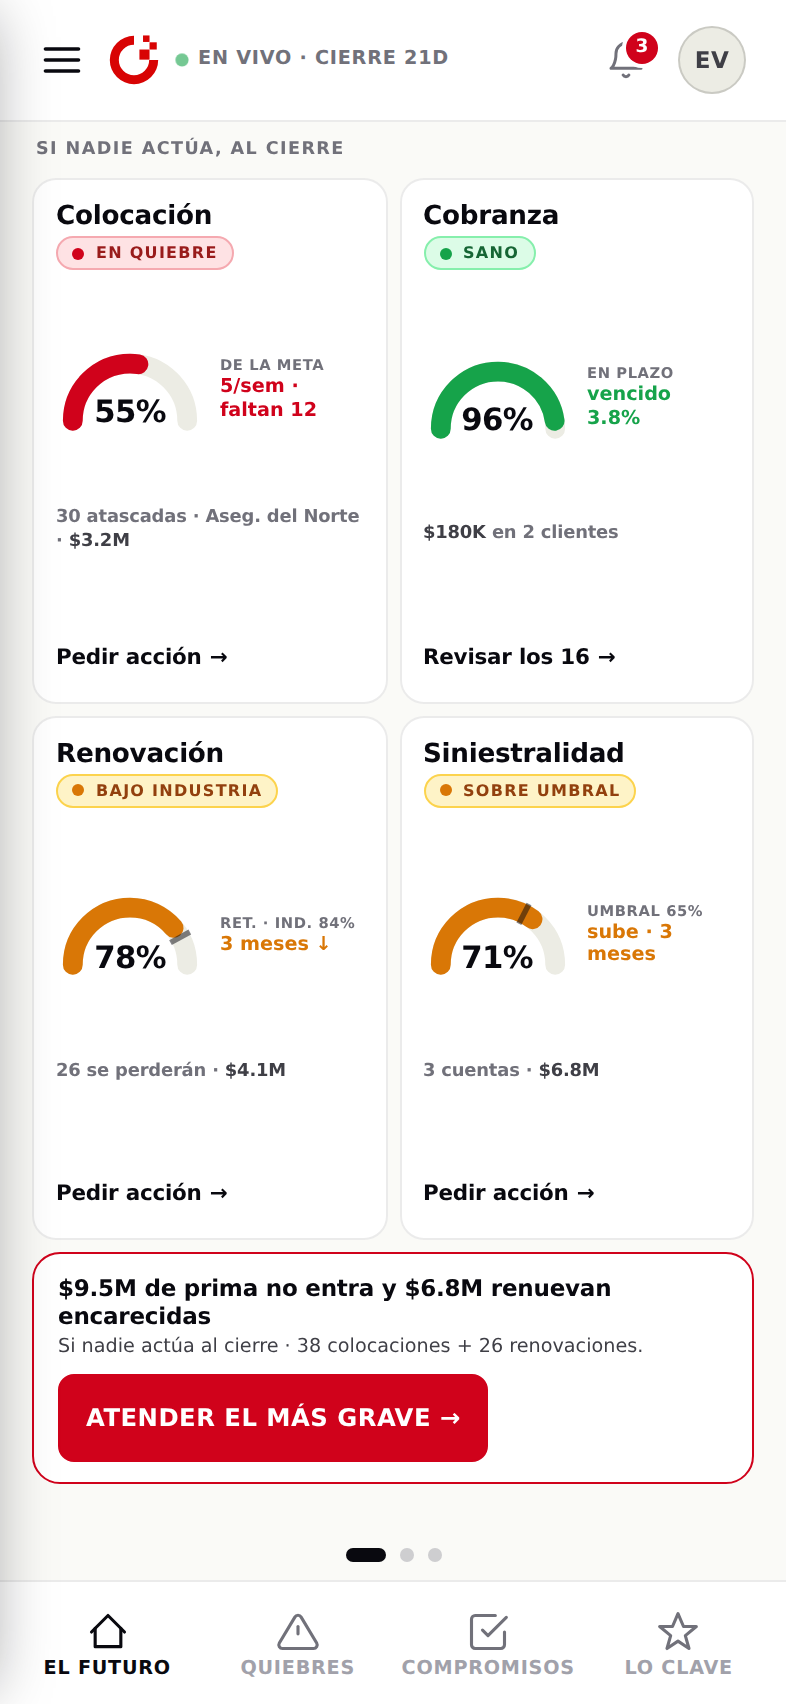
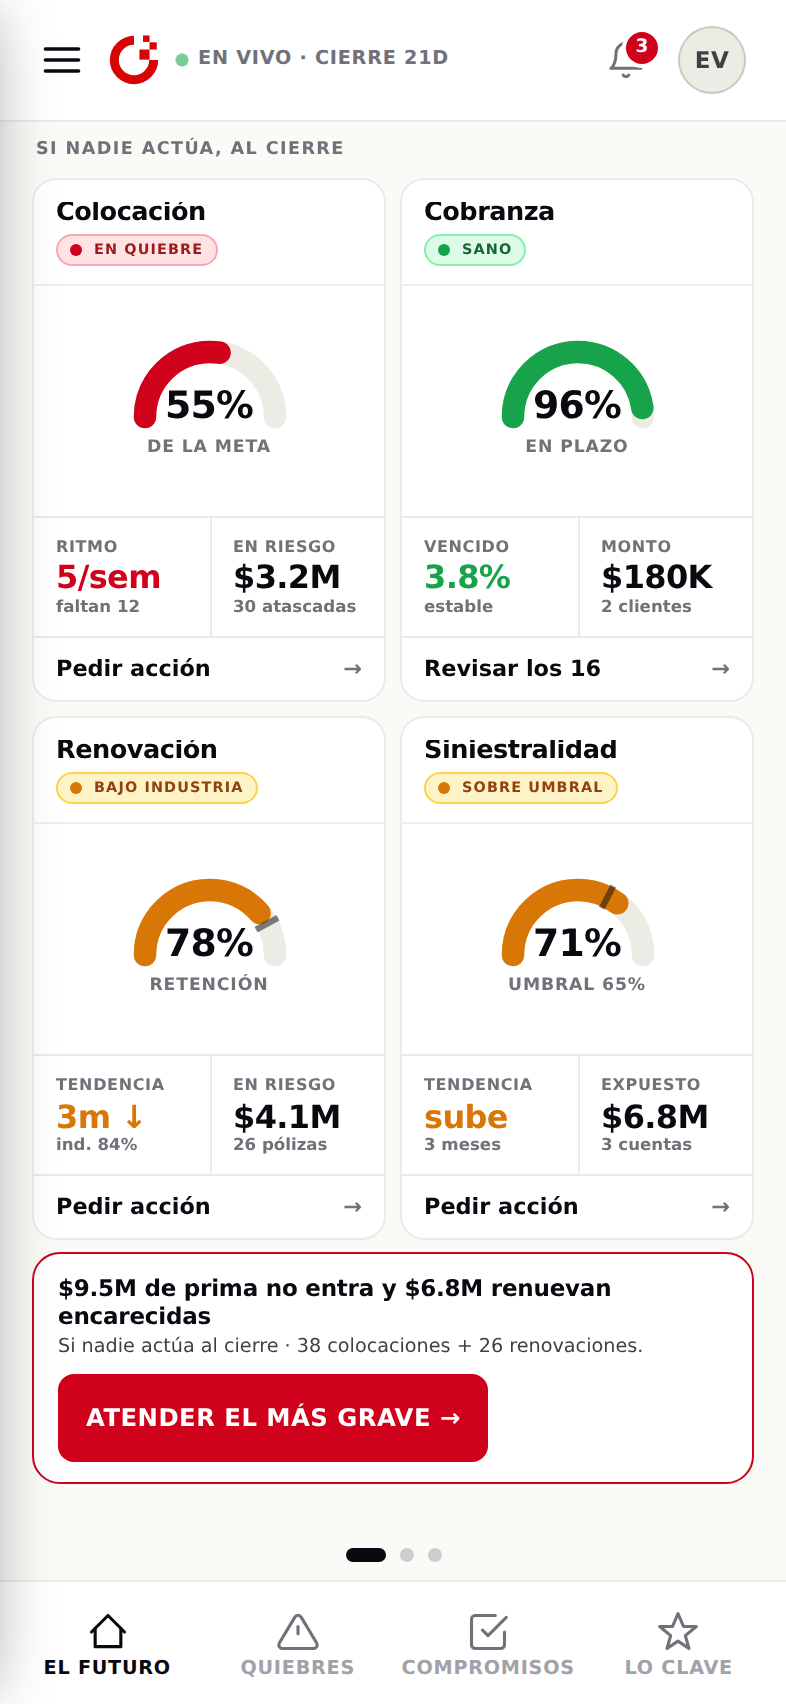
Desarrollo · Ontikos móvil: El Futuro, celda KPI compuesta en grilla
El contenido interno de cada línea se REDISEÑA sobre una grilla (no se estira
la caja). Cada tile es una celda KPI con zonas separadas por líneas clave:

- Cabecera: título + estado (chip).
- Héroe: el gauge (arco + %) con su caption.
- Cifras: rejilla de 2 columnas con línea clave entre ellas —tendencia y
  dinero del escritorio (Ritmo/Vencido/Tendencia + En riesgo/Monto/Expuesto)—,
  valores a peso 900 tabular; el dinero en TINTA, la tendencia en su estado.
- Acto: Pedir acción / Revisar los 16.

Así la celda llena por composición, con contenido real y alineado, en vez de
una caja estirada con el contenido flotando. En el iPhone SE con barras las
cifras se ocultan y queda la celda compacta (gauge + acto); re-auditado sin
desbordamiento ni recorte en 375×553, 375×667, 393×852, 412×915. Botón de la
barra de decisión con texto blanco sobre rojo también en oscuro.

Claude-Session: https://claude.ai/code/session_01Tht9ke39SpUdAFHxMDBS3w

diff --git a/desarrollo/movil/index.html b/desarrollo/movil/index.html
@@ -81,31 +81,43 @@
           <div class="page-ey">Si nadie actúa, al cierre</div>
           <div class="lgrid">
             <!-- Colocación -->
-            <div class="ltile" onclick="openLine('Colocación','En quiebre · 55% de la meta','Ritmo 5/sem · se necesitan 12 · 30 atascadas · Aseg. del Norte · $3.2M')">
-              <div class="ltile-h"><span class="ltile-t">Colocación</span><span class="memb-chip expired">en quiebre</span></div>
-              <div class="gz r"><div class="gz-arc"><svg viewBox="0 0 64 40"><path class="gz-track" d="M6 34 A26 26 0 0 1 58 34" pathLength="100"/><path class="gz-val" d="M6 34 A26 26 0 0 1 58 34" pathLength="100" stroke-dasharray="100" stroke-dashoffset="45"/></svg><div class="gz-num">55%</div></div><div class="gz-body"><div class="gz-cap">de la meta</div><div class="gz-pace r">5/sem · faltan 12</div></div></div>
-              <div class="ltile-foot">30 atascadas · Aseg. del Norte · <b>$3.2M</b></div>
+            <div class="ltile" onclick="openLine('Colocación','En quiebre · 55% de la meta','Ritmo 5/sem, se necesitan 12 · 30 atascadas en Aseguradora del Norte · $3.2M en riesgo')">
+              <div class="lt-head"><span class="lt-t">Colocación</span><span class="memb-chip expired">en quiebre</span></div>
+              <div class="lt-hero r"><div class="gz-arc"><svg viewBox="0 0 64 40"><path class="gz-track" d="M6 34 A26 26 0 0 1 58 34" pathLength="100"/><path class="gz-val" d="M6 34 A26 26 0 0 1 58 34" pathLength="100" stroke-dasharray="100" stroke-dashoffset="45"/></svg><div class="gz-num">55%</div></div><div class="lt-cap">de la meta</div></div>
+              <div class="lt-stats">
+                <div class="lt-stat"><div class="lt-k">Ritmo</div><div class="lt-v r">5/sem</div><div class="lt-s">faltan 12</div></div>
+                <div class="lt-stat"><div class="lt-k">En riesgo</div><div class="lt-v">$3.2M</div><div class="lt-s">30 atascadas</div></div>
+              </div>
               <button class="ltile-act">Pedir acción<span class="arr">→</span></button>
             </div>
             <!-- Cobranza -->
-            <div class="ltile" onclick="openLine('Cobranza','Sano · 96% en plazo','Vencido 3.8% · estable · $180K en 2 clientes')">
-              <div class="ltile-h"><span class="ltile-t">Cobranza</span><span class="memb-chip">sano</span></div>
-              <div class="gz g"><div class="gz-arc"><svg viewBox="0 0 64 40"><path class="gz-track" d="M6 34 A26 26 0 0 1 58 34" pathLength="100"/><path class="gz-val" d="M6 34 A26 26 0 0 1 58 34" pathLength="100" stroke-dasharray="100" stroke-dashoffset="4"/></svg><div class="gz-num">96%</div></div><div class="gz-body"><div class="gz-cap">en plazo</div><div class="gz-pace g">vencido 3.8%</div></div></div>
-              <div class="ltile-foot"><b>$180K</b> en 2 clientes</div>
+            <div class="ltile" onclick="openLine('Cobranza','Sano · 96% en plazo','Vencido 3.8%, estable · $180K en 2 clientes')">
+              <div class="lt-head"><span class="lt-t">Cobranza</span><span class="memb-chip">sano</span></div>
+              <div class="lt-hero g"><div class="gz-arc"><svg viewBox="0 0 64 40"><path class="gz-track" d="M6 34 A26 26 0 0 1 58 34" pathLength="100"/><path class="gz-val" d="M6 34 A26 26 0 0 1 58 34" pathLength="100" stroke-dasharray="100" stroke-dashoffset="4"/></svg><div class="gz-num">96%</div></div><div class="lt-cap">en plazo</div></div>
+              <div class="lt-stats">
+                <div class="lt-stat"><div class="lt-k">Vencido</div><div class="lt-v g">3.8%</div><div class="lt-s">estable</div></div>
+                <div class="lt-stat"><div class="lt-k">Monto</div><div class="lt-v">$180K</div><div class="lt-s">2 clientes</div></div>
+              </div>
               <button class="ltile-act">Revisar los 16<span class="arr">→</span></button>
             </div>
             <!-- Renovación -->
-            <div class="ltile" onclick="openLine('Renovación','Bajo industria · 78% retención','Ind. 84% · 3 meses a la baja · 26 se perderán · $4.1M')">
-              <div class="ltile-h"><span class="ltile-t">Renovación</span><span class="memb-chip grace">bajo industria</span></div>
-              <div class="gz a"><div class="gz-arc"><svg viewBox="0 0 64 40"><path class="gz-track" d="M6 34 A26 26 0 0 1 58 34" pathLength="100"/><path class="gz-val" d="M6 34 A26 26 0 0 1 58 34" pathLength="100" stroke-dasharray="100" stroke-dashoffset="22"/><line class="gz-tick" x1="50.4" y1="23.9" x2="59.2" y2="19.1"/></svg><div class="gz-num">78%</div></div><div class="gz-body"><div class="gz-cap">ret. · ind. 84%</div><div class="gz-pace a">3 meses ↓</div></div></div>
-              <div class="ltile-foot">26 se perderán · <b>$4.1M</b></div>
+            <div class="ltile" onclick="openLine('Renovación','Bajo industria · 78% retención','Industria 84% · 3 meses a la baja · 26 se perderán · $4.1M')">
+              <div class="lt-head"><span class="lt-t">Renovación</span><span class="memb-chip grace">bajo industria</span></div>
+              <div class="lt-hero a"><div class="gz-arc"><svg viewBox="0 0 64 40"><path class="gz-track" d="M6 34 A26 26 0 0 1 58 34" pathLength="100"/><path class="gz-val" d="M6 34 A26 26 0 0 1 58 34" pathLength="100" stroke-dasharray="100" stroke-dashoffset="22"/><line class="gz-tick" x1="50.4" y1="23.9" x2="59.2" y2="19.1"/></svg><div class="gz-num">78%</div></div><div class="lt-cap">retención</div></div>
+              <div class="lt-stats">
+                <div class="lt-stat"><div class="lt-k">Tendencia</div><div class="lt-v a">3m ↓</div><div class="lt-s">ind. 84%</div></div>
+                <div class="lt-stat"><div class="lt-k">En riesgo</div><div class="lt-v">$4.1M</div><div class="lt-s">26 pólizas</div></div>
+              </div>
               <button class="ltile-act">Pedir acción<span class="arr">→</span></button>
             </div>
             <!-- Siniestralidad -->
-            <div class="ltile" onclick="openLine('Siniestralidad','Sobre umbral · 71% · umbral 65%','Sube · 3 meses · 3 cuentas · $6.8M')">
-              <div class="ltile-h"><span class="ltile-t">Siniestralidad</span><span class="memb-chip grace">sobre umbral</span></div>
-              <div class="gz a"><div class="gz-arc"><svg viewBox="0 0 64 40"><path class="gz-track" d="M6 34 A26 26 0 0 1 58 34" pathLength="100"/><path class="gz-val" d="M6 34 A26 26 0 0 1 58 34" pathLength="100" stroke-dasharray="100" stroke-dashoffset="29"/><line class="gz-tick" x1="41.5" y1="15.3" x2="46.1" y2="6.4"/></svg><div class="gz-num">71%</div></div><div class="gz-body"><div class="gz-cap">umbral 65%</div><div class="gz-pace a">sube · 3 meses</div></div></div>
-              <div class="ltile-foot">3 cuentas · <b>$6.8M</b></div>
+            <div class="ltile" onclick="openLine('Siniestralidad','Sobre umbral · 71% · umbral 65%','Sube 3 meses · umbral 65% · 3 cuentas · $6.8M expuesto')">
+              <div class="lt-head"><span class="lt-t">Siniestralidad</span><span class="memb-chip grace">sobre umbral</span></div>
+              <div class="lt-hero a"><div class="gz-arc"><svg viewBox="0 0 64 40"><path class="gz-track" d="M6 34 A26 26 0 0 1 58 34" pathLength="100"/><path class="gz-val" d="M6 34 A26 26 0 0 1 58 34" pathLength="100" stroke-dasharray="100" stroke-dashoffset="29"/><line class="gz-tick" x1="41.5" y1="15.3" x2="46.1" y2="6.4"/></svg><div class="gz-num">71%</div></div><div class="lt-cap">umbral 65%</div></div>
+              <div class="lt-stats">
+                <div class="lt-stat"><div class="lt-k">Tendencia</div><div class="lt-v a">sube</div><div class="lt-s">3 meses</div></div>
+                <div class="lt-stat"><div class="lt-k">Expuesto</div><div class="lt-v">$6.8M</div><div class="lt-s">3 cuentas</div></div>
+              </div>
               <button class="ltile-act">Pedir acción<span class="arr">→</span></button>
             </div>
           </div>

diff --git a/desarrollo/movil/assets/movil.css b/desarrollo/movil/assets/movil.css
@@ -86,47 +86,59 @@
 .gz-pace{font-size:.66rem;font-weight:800;margin-top:3px;line-height:1.2}
 .gz-pace.r{color:var(--red-tx,var(--red))} .gz-pace.a{color:var(--amber)} .gz-pace.g{color:var(--green)} .gz-pace.n{color:var(--ink2)}
 
-/* el tile de línea estratégica (página 1 · rejilla 2×2).
-   La rejilla LLENA el alto disponible (flex:1, filas iguales) y el gauge se
-   centra en el tile: en pantallas altas el tile crece y respira, sin dejar un
-   vacío grande en medio de la página; en el SE se compacta. */
-.lgrid{display:grid;grid-template-columns:1fr 1fr;grid-template-rows:1fr 1fr;gap:6px;flex:1 1 auto;min-height:0}
-.ltile{background:var(--surf);border:1px solid var(--brd);border-radius:12px;padding:10px 10px;display:flex;flex-direction:column;justify-content:space-between;gap:6px;min-width:0;min-height:0;overflow:hidden}
-.ltile .gz{flex:none;align-items:center}
-.ltile-foot{flex:none;font-size:.56rem;font-weight:700;color:var(--ink3);line-height:1.3;letter-spacing:-.01em}
-.ltile-foot b{color:var(--ink2);font-weight:800}
-/* título en su línea; el chip de estado DEBAJO (así caben "sobre umbral",
-   "bajo industria" sin salirse del tile estrecho) */
-.ltile-h{display:flex;flex-direction:column;align-items:flex-start;gap:3px}
-.ltile-t{font-size:.82rem;font-weight:800;letter-spacing:-.01em;line-height:1}
-.ltile .memb-chip{font-size:.5rem;padding:2px 7px;white-space:nowrap}
-.ltile .gz{gap:8px}
-.ltile .gz-arc{width:54px;height:32px}
-.ltile .gz-arc svg{width:54px;height:32px}
-.ltile .gz-num{font-size:.8rem}
-.ltile .gz-cap{font-size:.46rem}
-.ltile .gz-pace{font-size:.6rem;margin-top:1px}
-/* la línea de evidencia (foot) sólo en pantallas altas: en el SE no cabe y su
-   razón es llenar el alto que sobra, que el SE no tiene */
-.ltile-foot{display:none}
-/* en pantallas altas: el gauge crece, aparece la evidencia, el tile respira */
-@media (min-height:740px){
-  .ltile{padding:12px 11px}
-  .ltile .gz-arc{width:74px;height:44px}
-  .ltile .gz-arc svg{width:74px;height:44px}
-  .ltile .gz-num{font-size:.96rem}
-  .ltile-foot{display:block}
+/* ── El tile de línea estratégica · celda KPI COMPUESTA EN GRILLA ──────────
+   No es una caja estirada: el contenido interno se rediseña y se alinea a
+   líneas clave. Zonas: cabecera (título + estado) · el gauge como héroe · una
+   rejilla de 2 cifras (tendencia y dinero, del escritorio) separadas por una
+   línea clave · el acto. Llena por composición, no estirando. */
+.lgrid{display:grid;grid-template-columns:1fr 1fr;grid-template-rows:1fr 1fr;gap:7px;flex:1 1 auto;min-height:0}
+.ltile{background:var(--surf);border:1px solid var(--brd);border-radius:12px;display:grid;grid-template-rows:auto 1fr auto;min-width:0;min-height:0;overflow:hidden;cursor:pointer}
+/* título arriba, estado DEBAJO: así caben "bajo industria"/"sobre umbral" sin
+   recortarse en el tile estrecho */
+.lt-head{display:flex;flex-direction:column;align-items:flex-start;gap:3px;padding:7px 9px 6px}
+.lt-t{font-size:.8rem;font-weight:800;letter-spacing:-.02em;line-height:1;max-width:100%;overflow:hidden;text-overflow:ellipsis;white-space:nowrap}
+.ltile .memb-chip{font-size:.45rem;padding:2px 6px;white-space:nowrap;flex:none}
+/* héroe: el gauge (arco + %) centrado, crece con el tile */
+.lt-hero{display:flex;flex-direction:column;align-items:center;justify-content:center;gap:2px;padding:3px 8px 7px;border-top:1px solid var(--line2,rgba(0,0,0,.07));min-height:0}
+.lt-hero .gz-arc{width:64px;height:38px;position:relative;flex:none}
+.lt-hero .gz-arc svg{width:64px;height:38px;display:block;overflow:visible}
+.lt-hero .gz-num{font-size:.9rem}
+.lt-hero.r .gz-val{stroke:var(--red)} .lt-hero.a .gz-val{stroke:var(--amber-fill,var(--amber))} .lt-hero.g .gz-val{stroke:var(--green)}
+.lt-cap{font-size:.5rem;font-weight:800;color:var(--ink3);text-transform:uppercase;letter-spacing:.05em;text-align:center}
+/* cifras: 2 columnas, línea clave arriba y entre ellas */
+.lt-stats{display:none;grid-template-columns:1fr 1fr;border-top:1px solid var(--brd)}
+.lt-stat{padding:6px 10px;min-width:0}
+.lt-stat + .lt-stat{border-left:1px solid var(--brd)}
+.lt-k{font-size:.46rem;font-weight:800;color:var(--ink3);text-transform:uppercase;letter-spacing:.04em;white-space:nowrap;overflow:hidden;text-overflow:ellipsis}
+.lt-v{font-size:.86rem;font-weight:900;letter-spacing:-.02em;font-variant-numeric:tabular-nums;line-height:1.05;margin-top:2px;color:var(--ink)}
+.lt-v.r{color:var(--red-tx,var(--red))} .lt-v.a{color:var(--amber)} .lt-v.g{color:var(--green)}
+.lt-s{font-size:.48rem;font-weight:700;color:var(--ink3);line-height:1.2;margin-top:1px;white-space:nowrap;overflow:hidden;text-overflow:ellipsis}
+.ltile-act{border:none;border-top:1px solid var(--brd);background:none;padding:7px 10px;text-align:left;font-size:.66rem;font-weight:800;color:var(--ink);cursor:pointer;display:flex;align-items:center;justify-content:space-between;font-family:inherit;min-height:24px}
+.ltile-act .arr{color:var(--ink3)}
+/* la rejilla de cifras aparece cuando hay alto; en el SE con barras se oculta */
+@media (min-height:600px){
+  .ltile{grid-template-rows:auto 1fr auto auto}
+  .lt-stats{display:grid}
 }
-/* el acto de la línea: texto en tinta, abajo del tile (CM primario neutro).
-   El objetivo táctil de 44px lo cubre el tile entero, que también abre la hoja. */
-.ltile-act{border:none;background:none;padding:3px 0 0;text-align:left;font-size:.67rem;font-weight:800;color:var(--ink);cursor:pointer;letter-spacing:-.01em;min-height:24px;display:flex;align-items:center;font-family:inherit}
-.ltile-act .arr{margin-left:4px}
+/* en pantallas altas el gauge y las cifras crecen */
+@media (min-height:740px){
+  .lt-head{padding:11px 11px 9px}
+  .lt-hero .gz-arc{width:86px;height:50px}
+  .lt-hero .gz-arc svg{width:86px;height:50px}
+  .lt-hero .gz-num{font-size:1.18rem}
+  .lt-cap{font-size:.54rem}
+  .lt-stat{padding:9px 11px}
+  .lt-v{font-size:1rem}
+  .lt-k{font-size:.5rem}
+  .lt-s{font-size:.52rem}
+  .ltile-act{padding:9px 11px;font-size:.7rem}
+}
 
 /* ══ 5 · color = significado y ajustes sobre las formas heredadas ════════════ */
 /* la barra de decisión usa .camp; hereda el estado más grave (hoy rojo).
    Compacta dentro de la página para que todo quepa en el peor caso (SE con barras). */
 .camp.grave{border-color:var(--red)}
-.camp.grave .camp-act,.camp.grave .btn.primary{background:var(--red);border-color:var(--red)}
+.camp.grave .camp-act,.camp.grave .btn.primary{background:var(--red);border-color:var(--red);color:#fff}
 .page .camp{padding:10px 12px}
 .page .camp-t{font-size:.72rem;line-height:1.22}
 .page .camp-s{font-size:.6rem;margin-top:2px;line-height:1.25}

diff --git a/desarrollo/movil/marco.html b/desarrollo/movil/marco.html
@@ -133,7 +133,7 @@ footer p{font-size:.84rem;color:var(--ink3);max-width:74ch}
   <div class="sec">
     <div class="sec-n">§2</div>
     <h2>La entrada se pagina, no se desplaza</h2>
-    <p class="intro">El Futuro es una rejilla de 2×2 que se recorre de lado con el dedo, con puntos sobre la barra inferior (tocables y con aria). Cada página se dimensiona para caber entera en el peor caso, sin desplazamiento vertical. El paginador con scroll-snap es pieza nueva (no existe en la casa). <b>El contenido llena el alto, no deja vacío:</b> en pantallas altas los tiles crecen, el gauge crece y aparece la línea de evidencia del escritorio (30 atascadas · $3.2M…), y las barras del timeline se estiran; en el iPhone SE todo se compacta para caber. Las imágenes de abajo son un teléfono moderno (393×852).</p>
+    <p class="intro">El Futuro es una rejilla de 2×2 que se recorre de lado con el dedo, con puntos sobre la barra inferior (tocables y con aria). Cada página se dimensiona para caber entera en el peor caso, sin desplazamiento vertical. El paginador con scroll-snap es pieza nueva (no existe en la casa). <b>El contenido interno se rediseña sobre una grilla, no se estira:</b> cada línea es una celda KPI compuesta —cabecera (título + estado), el gauge como héroe, una rejilla de 2 cifras (tendencia y dinero del escritorio, en su color: el dinero en tinta, la tendencia en su estado) separadas por líneas clave, y el acto—. Así la celda llena por composición. En el iPhone SE con barras las cifras se ocultan y queda la celda compacta (gauge + acto). Las imágenes de abajo son un teléfono moderno (393×852).</p>
     <div class="formlist">
       <span class="fm"><b>Página 1</b> · las 4 líneas en 2×2 (gauge + estado + acto) + la barra de decisión</span>
       <span class="fm"><b>Página 2</b> · embudo de colocación (con «Quedarán fuera») + timeline de renovación</span>
